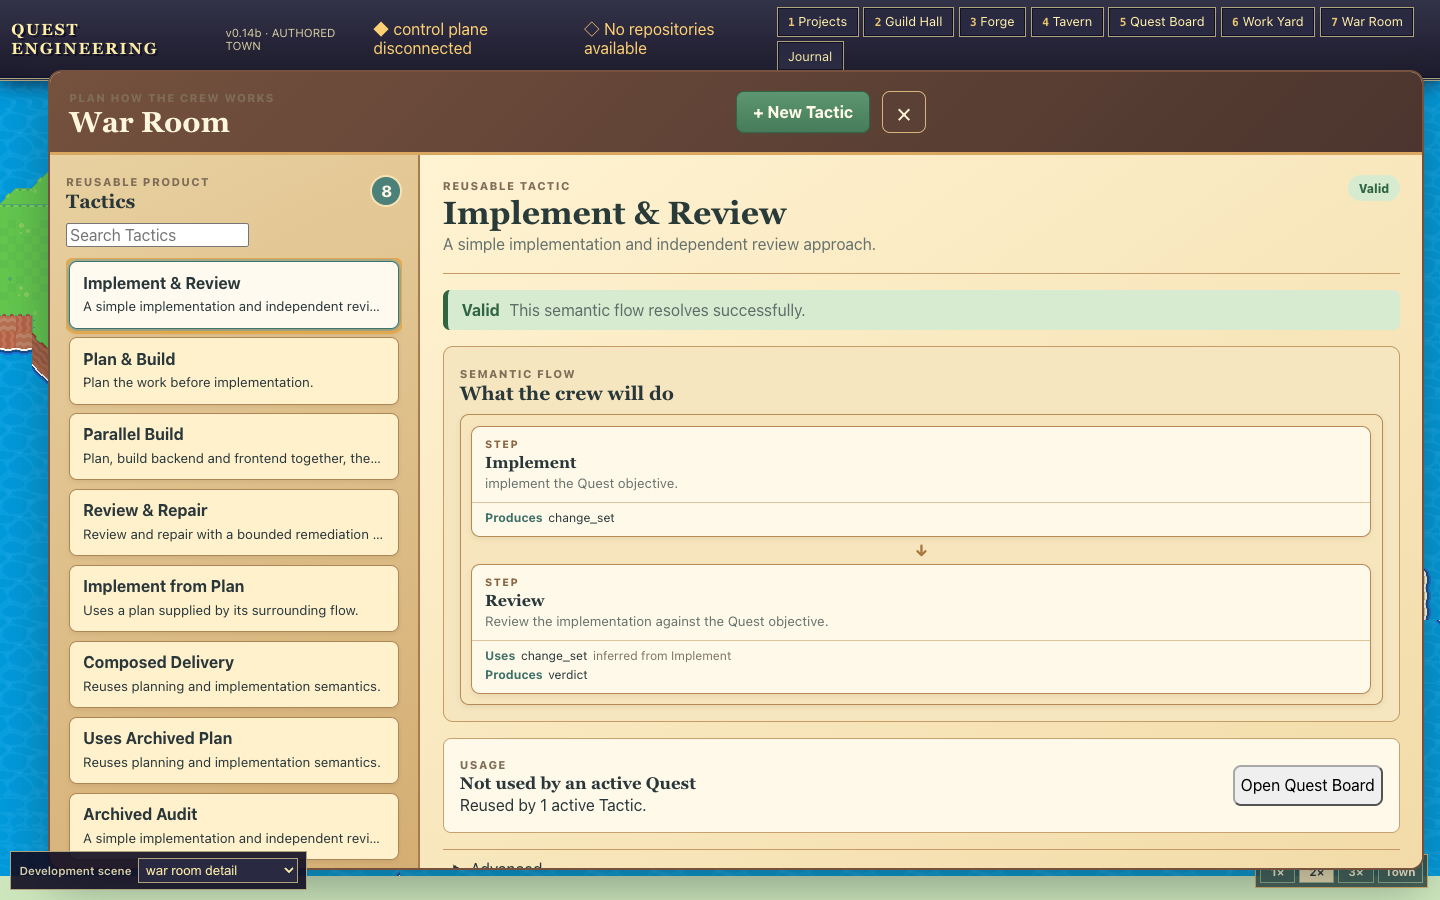
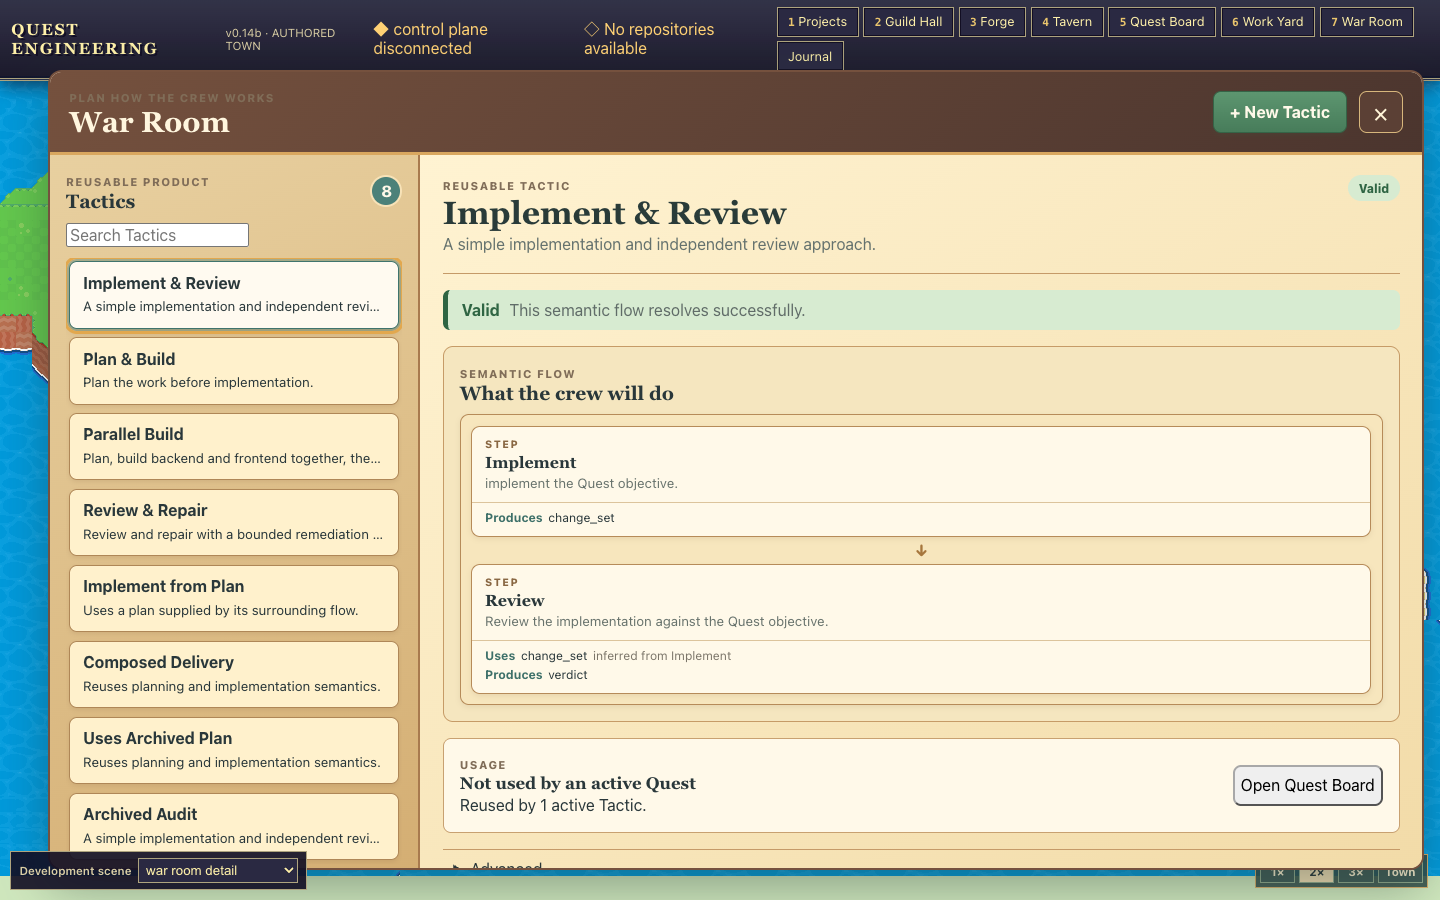
move buttons for war room

Changed region(s): [[0.5, 0.0933, 0.625, 0.1556], [0.8438, 0.0933, 0.9375, 0.1556]]

diff --git a/client/src/components/war-room/WarRoomWindow.svelte b/client/src/components/war-room/WarRoomWindow.svelte
@@ -806,5 +806,5 @@ function humanizeKey(value: string): string {
 </aside>
 
 <style>
-.war-room-window{width:min(86rem,calc(100vw - 1.5rem));height:min(50rem,calc(100vh - 4.5rem))}.war-layout{display:grid;grid-template-columns:minmax(15rem,27%) minmax(0,1fr);height:calc(100% - 5rem);min-height:0}.war-layout.editing{grid-template-columns:minmax(13rem,20%) minmax(25rem,1fr) minmax(18rem,24%)}.tactic-browser{min-width:0;padding:1rem;overflow:hidden;background:linear-gradient(155deg,#e8d0a0,#d4ae73);border-right:2px solid #a87a4e}.browser-heading,.section-heading,.detail-actions,.editor-actions,.inspector-section-title,.header-actions,.editor-heading,.detail-hero,.usage-panel{display:flex;align-items:center;gap:.75rem}.browser-heading h2,.section-heading h3{margin:.05rem 0 0;color:var(--app-ink);font:700 1.2rem Georgia,serif}.count-seal{display:grid;place-items:center;width:2rem;height:2rem;margin-left:auto;color:#fff8e9;background:var(--app-teal);border:2px solid #f7e2b7;border-radius:50%;font-weight:800}.search-field{display:block;margin:.7rem 0}.tactic-list{display:grid;align-content:start;gap:.55rem;max-height:calc(100% - 3.5rem);padding:.2rem;overflow:auto}.tactic-card{display:grid;gap:.25rem;width:100%;min-height:4.2rem;padding:.7rem .8rem;color:var(--app-ink);text-align:left;background:#fff1cc;border:1px solid #af8757;box-shadow:0 2px 5px #72503522}.tactic-card small{overflow:hidden;text-overflow:ellipsis;white-space:nowrap}.tactic-card.selected{background:#fffaf0;border-color:#3f746d;box-shadow:0 0 0 2px #4c817966,0 4px 10px #72503533}.tactic-detail,.flow-editor,.node-inspector{min-width:0;min-height:0;overflow:auto;color:var(--app-ink);background:linear-gradient(145deg,#fff3d2,#f2dba8)}.tactic-detail{padding:1.25rem 1.4rem}.detail-hero{align-items:flex-start;padding-bottom:1rem;border-bottom:1px solid #c59a68}.detail-hero>div{min-width:0;flex:1}.detail-hero h2,.editor-heading h2,.node-inspector h2{margin:.12rem 0;color:#293b39;font:700 2rem Georgia,serif}.detail-hero p{margin:.25rem 0;color:#65726e}.status-chip{padding:.35rem .65rem;border-radius:999px;font-size:.75rem;font-weight:800}.tone-success{background:#d7ebd1;color:#2f6543}.tone-warning{background:#f3dfaa;color:#74541f}.tone-danger{background:#f5cec3;color:#8a443d}.tone-active{background:#cde4df;color:#315f5c}.tone-neutral{background:#e7e2d2;color:#576864}.validation-banner{display:flex;gap:.6rem;align-items:baseline;margin:1rem 0;padding:.7rem .85rem;border-left:5px solid currentColor;border-radius:7px}.validation-banner span{color:#606c68}.read-flow{display:grid;gap:.65rem;margin:1rem 0;padding:1rem;background:#f5e6bf;border:1px solid #c69b67;border-radius:10px}.usage-panel{justify-content:space-between;margin:1rem 0;padding:.9rem 1rem;background:#fff9e9;border:1px solid #c8a171;border-radius:8px}.usage-panel h3{margin:.15rem 0;font:700 1.05rem Georgia,serif}.usage-panel p{margin:.2rem 0}.advanced-read{margin:1rem 0;padding:.65rem;border-top:1px solid #c59a68}.advanced-read dl{display:grid;grid-template-columns:auto 1fr;gap:.4rem}.detail-actions{justify-content:space-between;padding-top:1rem;border-top:1px solid #c59a68}.flow-editor{display:grid;grid-template-rows:auto auto auto minmax(15rem,1fr) auto auto;gap:.65rem;padding:.85rem 1rem}.editor-heading{justify-content:space-between}.editor-heading h2{font-size:1.45rem}.preview-state{display:grid;padding:.4rem .55rem;border-radius:7px;text-align:right}.preview-state small{color:inherit}.future-run-note{margin:0;padding:.55rem .7rem;background:#e1eddc;border-left:4px solid #568467;font-size:.78rem}.metadata-fields{display:grid;grid-template-columns:auto minmax(10rem,1fr);gap:.35rem .6rem;padding:.55rem .7rem;border:1px solid #c49b6d;border-radius:8px}.metadata-fields legend{font-weight:800}.metadata-fields textarea{min-height:3.2rem}.canvas-toolbar{display:flex;justify-content:space-between;gap:.5rem;flex-wrap:wrap}.canvas-toolbar>div{display:flex;gap:.35rem;flex-wrap:wrap}.canvas-toolbar button{padding:.35rem .5rem;color:#365e59;background:#fff8e8;border:1px solid #9e8060;box-shadow:none;font-size:.74rem}.canvas-toolbar .remove-node{color:#934a43}.flow-canvas{min-height:0;padding:.8rem;overflow:auto;background:linear-gradient(#d8bd87 1px,transparent 1px),linear-gradient(90deg,#d8bd87 1px,transparent 1px),#efd8aa;background-size:24px 24px;border:2px solid #9d7149;border-radius:10px;box-shadow:inset 0 0 18px #6e492c25}.editor-actions{justify-content:flex-end;padding-top:.5rem;border-top:1px solid #bd9463}.node-inspector{padding:1rem;border-left:2px solid #a87a4e;background:#fff8e7}.node-inspector header{padding-bottom:.7rem;border-bottom:1px solid #d0ae80}.node-inspector h2{font-size:1.35rem}.node-inspector header p{color:#68736d;font-size:.78rem}.node-inspector>label,.node-inspector details>label{display:block;margin:.7rem 0 .25rem;font-size:.76rem;font-weight:800}.node-inspector textarea{min-height:6rem}.artifact-editor{margin-top:.9rem;padding-top:.7rem;border-top:1px solid #d4b487}.inspector-section-title{justify-content:space-between}.inspector-section-title h3{margin:0;font:700 1rem Georgia,serif}.inspector-section-title button,.artifact-row button{padding:.2rem .4rem;color:#446b65;background:#fff;border:1px solid #aa8b67;box-shadow:none}.artifact-row{display:grid;grid-template-columns:minmax(0,1fr) minmax(6rem,.8fr) auto;gap:.3rem;margin-top:.4rem}.artifact-row.output{grid-template-columns:minmax(0,1fr) auto}.resolved-binding{display:block;margin:.2rem;color:#3d6e66}.inspector-advanced{margin-top:1rem;padding-top:.7rem;border-top:1px solid #d4b487}.inspector-advanced fieldset{display:grid;gap:.35rem;margin:.7rem 0;padding:.55rem;border:1px solid #d1b184}.inspector-advanced label{font-size:.76rem}.reference-summary,.field-help,.archived-warning{padding:.45rem .55rem;background:#f3e7c8;font-size:.75rem}.archived-warning{color:#8d453f;background:#f5d4ca}.container-summary{display:flex;align-items:baseline;gap:.4rem;margin:1rem 0;padding:1rem;background:#f5e7c6;border:1px solid #c7a475}.container-summary strong{font:700 2rem Georgia,serif}.inspector-add{width:100%}.use-actions{display:flex;gap:.4rem;margin:.8rem 0}.nested-preview{max-height:16rem;padding:.5rem;overflow:auto;background:#f0ddb5;border:1px solid #b88d5b}.context-warning,.validation-issues{margin:.7rem 0;padding:.75rem .85rem;background:#fff0c9;border-left:5px solid #c28a35;border-radius:7px}.context-warning p{margin:.25rem 0}.context-warning li{margin:.25rem 0}.context-warning code{color:#5b5547}.compact-warning{margin:0}.validation-issues{display:grid;gap:.25rem;background:#f8d8cf;border-color:#c45f55}.friendly-error{padding:.65rem .75rem;color:#873f3b;background:#f7d4ca;border-left:5px solid #bd5e56}.empty-state{display:grid;place-items:center;align-content:center;height:100%;text-align:center}.empty-state p{max-width:35rem}.empty-seal{font-size:2rem}.sr-only{position:absolute;width:1px;height:1px;overflow:hidden;clip:rect(0,0,0,0)}@media(max-width:1050px){.war-layout.editing{grid-template-columns:9.5rem minmax(0,1fr) 15rem}.war-room-window{width:calc(100vw - 1rem)}.tactic-card small{display:none}.canvas-toolbar{flex-wrap:nowrap;overflow-x:auto;padding-bottom:.2rem}.canvas-toolbar>div{flex-wrap:nowrap}.canvas-toolbar button{white-space:nowrap}}@media(max-width:760px){.war-room-window{inset:.4rem;width:calc(100vw - .8rem);height:calc(100vh - .8rem)}.war-layout,.war-layout.editing{grid-template-columns:1fr;grid-template-rows:auto minmax(18rem,1fr) auto}.tactic-browser{max-height:8rem;padding:.55rem;border-right:0;border-bottom:2px solid #a87a4e}.browser-heading{display:none}.tactic-list{display:flex;max-height:7rem;overflow:auto}.tactic-card{min-width:12rem}.node-inspector{max-height:42vh;border-left:0;border-top:2px solid #a87a4e}.metadata-fields{grid-template-columns:1fr}.flow-editor{padding:.65rem}.canvas-toolbar>div:last-child{display:none}}
+.war-room-window{width:min(86rem,calc(100vw - 1.5rem));height:min(50rem,calc(100vh - 4.5rem))}.war-layout{display:grid;grid-template-columns:minmax(15rem,27%) minmax(0,1fr);height:calc(100% - 5rem);min-height:0}.war-layout.editing{grid-template-columns:minmax(13rem,20%) minmax(25rem,1fr) minmax(18rem,24%)}.tactic-browser{min-width:0;padding:1rem;overflow:hidden;background:linear-gradient(155deg,#e8d0a0,#d4ae73);border-right:2px solid #a87a4e}.browser-heading,.section-heading,.detail-actions,.editor-actions,.inspector-section-title,.header-actions,.editor-heading,.detail-hero,.usage-panel{display:flex;align-items:center;gap:.75rem}.header-actions{flex:0 0 auto!important;margin-left:auto}.browser-heading h2,.section-heading h3{margin:.05rem 0 0;color:var(--app-ink);font:700 1.2rem Georgia,serif}.count-seal{display:grid;place-items:center;width:2rem;height:2rem;margin-left:auto;color:#fff8e9;background:var(--app-teal);border:2px solid #f7e2b7;border-radius:50%;font-weight:800}.search-field{display:block;margin:.7rem 0}.tactic-list{display:grid;align-content:start;gap:.55rem;max-height:calc(100% - 3.5rem);padding:.2rem;overflow:auto}.tactic-card{display:grid;gap:.25rem;width:100%;min-height:4.2rem;padding:.7rem .8rem;color:var(--app-ink);text-align:left;background:#fff1cc;border:1px solid #af8757;box-shadow:0 2px 5px #72503522}.tactic-card small{overflow:hidden;text-overflow:ellipsis;white-space:nowrap}.tactic-card.selected{background:#fffaf0;border-color:#3f746d;box-shadow:0 0 0 2px #4c817966,0 4px 10px #72503533}.tactic-detail,.flow-editor,.node-inspector{min-width:0;min-height:0;overflow:auto;color:var(--app-ink);background:linear-gradient(145deg,#fff3d2,#f2dba8)}.tactic-detail{padding:1.25rem 1.4rem}.detail-hero{align-items:flex-start;padding-bottom:1rem;border-bottom:1px solid #c59a68}.detail-hero>div{min-width:0;flex:1}.detail-hero h2,.editor-heading h2,.node-inspector h2{margin:.12rem 0;color:#293b39;font:700 2rem Georgia,serif}.detail-hero p{margin:.25rem 0;color:#65726e}.status-chip{padding:.35rem .65rem;border-radius:999px;font-size:.75rem;font-weight:800}.tone-success{background:#d7ebd1;color:#2f6543}.tone-warning{background:#f3dfaa;color:#74541f}.tone-danger{background:#f5cec3;color:#8a443d}.tone-active{background:#cde4df;color:#315f5c}.tone-neutral{background:#e7e2d2;color:#576864}.validation-banner{display:flex;gap:.6rem;align-items:baseline;margin:1rem 0;padding:.7rem .85rem;border-left:5px solid currentColor;border-radius:7px}.validation-banner span{color:#606c68}.read-flow{display:grid;gap:.65rem;margin:1rem 0;padding:1rem;background:#f5e6bf;border:1px solid #c69b67;border-radius:10px}.usage-panel{justify-content:space-between;margin:1rem 0;padding:.9rem 1rem;background:#fff9e9;border:1px solid #c8a171;border-radius:8px}.usage-panel h3{margin:.15rem 0;font:700 1.05rem Georgia,serif}.usage-panel p{margin:.2rem 0}.advanced-read{margin:1rem 0;padding:.65rem;border-top:1px solid #c59a68}.advanced-read dl{display:grid;grid-template-columns:auto 1fr;gap:.4rem}.detail-actions{justify-content:space-between;padding-top:1rem;border-top:1px solid #c59a68}.flow-editor{display:grid;grid-template-rows:auto auto auto minmax(15rem,1fr) auto auto;gap:.65rem;padding:.85rem 1rem}.editor-heading{justify-content:space-between}.editor-heading h2{font-size:1.45rem}.preview-state{display:grid;padding:.4rem .55rem;border-radius:7px;text-align:right}.preview-state small{color:inherit}.future-run-note{margin:0;padding:.55rem .7rem;background:#e1eddc;border-left:4px solid #568467;font-size:.78rem}.metadata-fields{display:grid;grid-template-columns:auto minmax(10rem,1fr);gap:.35rem .6rem;padding:.55rem .7rem;border:1px solid #c49b6d;border-radius:8px}.metadata-fields legend{font-weight:800}.metadata-fields textarea{min-height:3.2rem}.canvas-toolbar{display:flex;justify-content:space-between;gap:.5rem;flex-wrap:wrap}.canvas-toolbar>div{display:flex;gap:.35rem;flex-wrap:wrap}.canvas-toolbar button{padding:.35rem .5rem;color:#365e59;background:#fff8e8;border:1px solid #9e8060;box-shadow:none;font-size:.74rem}.canvas-toolbar .remove-node{color:#934a43}.flow-canvas{min-height:0;padding:.8rem;overflow:auto;background:linear-gradient(#d8bd87 1px,transparent 1px),linear-gradient(90deg,#d8bd87 1px,transparent 1px),#efd8aa;background-size:24px 24px;border:2px solid #9d7149;border-radius:10px;box-shadow:inset 0 0 18px #6e492c25}.editor-actions{justify-content:flex-end;padding-top:.5rem;border-top:1px solid #bd9463}.node-inspector{padding:1rem;border-left:2px solid #a87a4e;background:#fff8e7}.node-inspector header{padding-bottom:.7rem;border-bottom:1px solid #d0ae80}.node-inspector h2{font-size:1.35rem}.node-inspector header p{color:#68736d;font-size:.78rem}.node-inspector>label,.node-inspector details>label{display:block;margin:.7rem 0 .25rem;font-size:.76rem;font-weight:800}.node-inspector textarea{min-height:6rem}.artifact-editor{margin-top:.9rem;padding-top:.7rem;border-top:1px solid #d4b487}.inspector-section-title{justify-content:space-between}.inspector-section-title h3{margin:0;font:700 1rem Georgia,serif}.inspector-section-title button,.artifact-row button{padding:.2rem .4rem;color:#446b65;background:#fff;border:1px solid #aa8b67;box-shadow:none}.artifact-row{display:grid;grid-template-columns:minmax(0,1fr) minmax(6rem,.8fr) auto;gap:.3rem;margin-top:.4rem}.artifact-row.output{grid-template-columns:minmax(0,1fr) auto}.resolved-binding{display:block;margin:.2rem;color:#3d6e66}.inspector-advanced{margin-top:1rem;padding-top:.7rem;border-top:1px solid #d4b487}.inspector-advanced fieldset{display:grid;gap:.35rem;margin:.7rem 0;padding:.55rem;border:1px solid #d1b184}.inspector-advanced label{font-size:.76rem}.reference-summary,.field-help,.archived-warning{padding:.45rem .55rem;background:#f3e7c8;font-size:.75rem}.archived-warning{color:#8d453f;background:#f5d4ca}.container-summary{display:flex;align-items:baseline;gap:.4rem;margin:1rem 0;padding:1rem;background:#f5e7c6;border:1px solid #c7a475}.container-summary strong{font:700 2rem Georgia,serif}.inspector-add{width:100%}.use-actions{display:flex;gap:.4rem;margin:.8rem 0}.nested-preview{max-height:16rem;padding:.5rem;overflow:auto;background:#f0ddb5;border:1px solid #b88d5b}.context-warning,.validation-issues{margin:.7rem 0;padding:.75rem .85rem;background:#fff0c9;border-left:5px solid #c28a35;border-radius:7px}.context-warning p{margin:.25rem 0}.context-warning li{margin:.25rem 0}.context-warning code{color:#5b5547}.compact-warning{margin:0}.validation-issues{display:grid;gap:.25rem;background:#f8d8cf;border-color:#c45f55}.friendly-error{padding:.65rem .75rem;color:#873f3b;background:#f7d4ca;border-left:5px solid #bd5e56}.empty-state{display:grid;place-items:center;align-content:center;height:100%;text-align:center}.empty-state p{max-width:35rem}.empty-seal{font-size:2rem}.sr-only{position:absolute;width:1px;height:1px;overflow:hidden;clip:rect(0,0,0,0)}@media(max-width:1050px){.war-layout.editing{grid-template-columns:9.5rem minmax(0,1fr) 15rem}.war-room-window{width:calc(100vw - 1rem)}.tactic-card small{display:none}.canvas-toolbar{flex-wrap:nowrap;overflow-x:auto;padding-bottom:.2rem}.canvas-toolbar>div{flex-wrap:nowrap}.canvas-toolbar button{white-space:nowrap}}@media(max-width:760px){.war-room-window{inset:.4rem;width:calc(100vw - .8rem);height:calc(100vh - .8rem)}.war-layout,.war-layout.editing{grid-template-columns:1fr;grid-template-rows:auto minmax(18rem,1fr) auto}.tactic-browser{max-height:8rem;padding:.55rem;border-right:0;border-bottom:2px solid #a87a4e}.browser-heading{display:none}.tactic-list{display:flex;max-height:7rem;overflow:auto}.tactic-card{min-width:12rem}.node-inspector{max-height:42vh;border-left:0;border-top:2px solid #a87a4e}.metadata-fields{grid-template-columns:1fr}.flow-editor{padding:.65rem}.canvas-toolbar>div:last-child{display:none}}
 </style>
